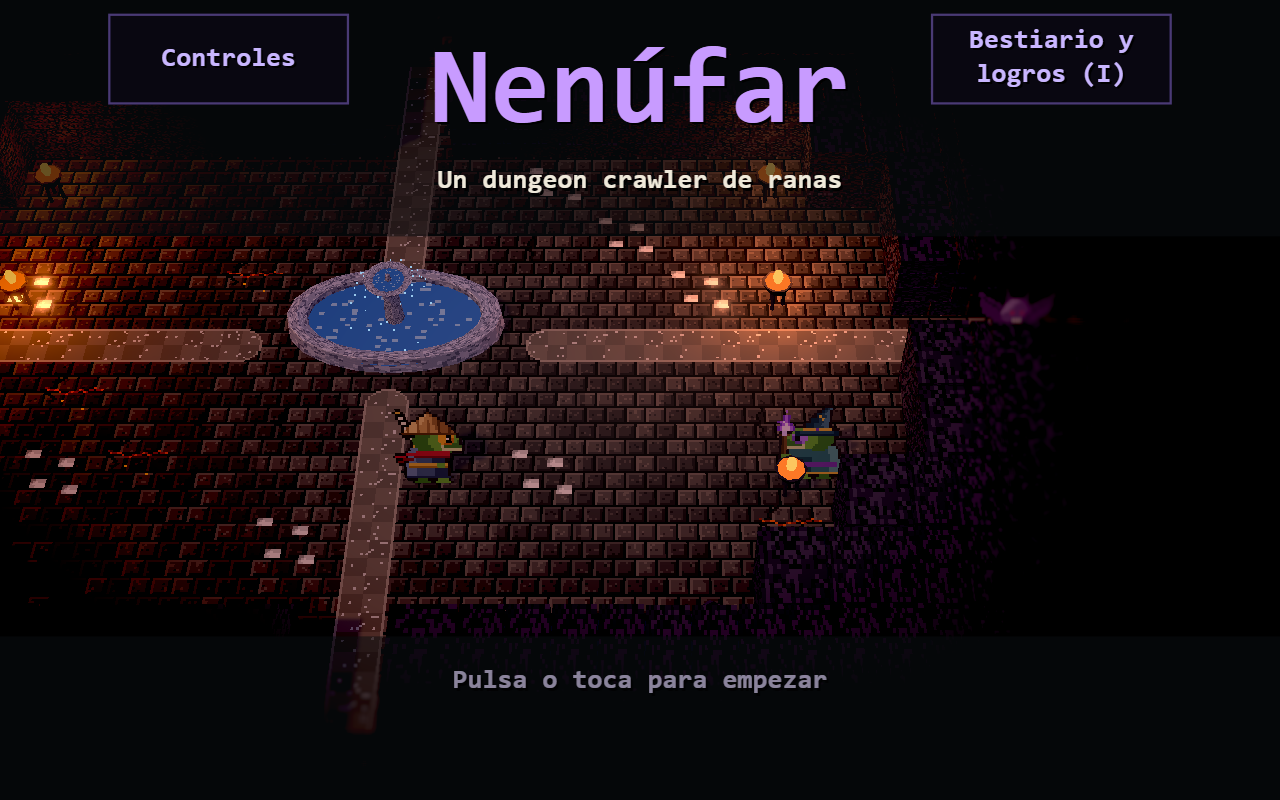
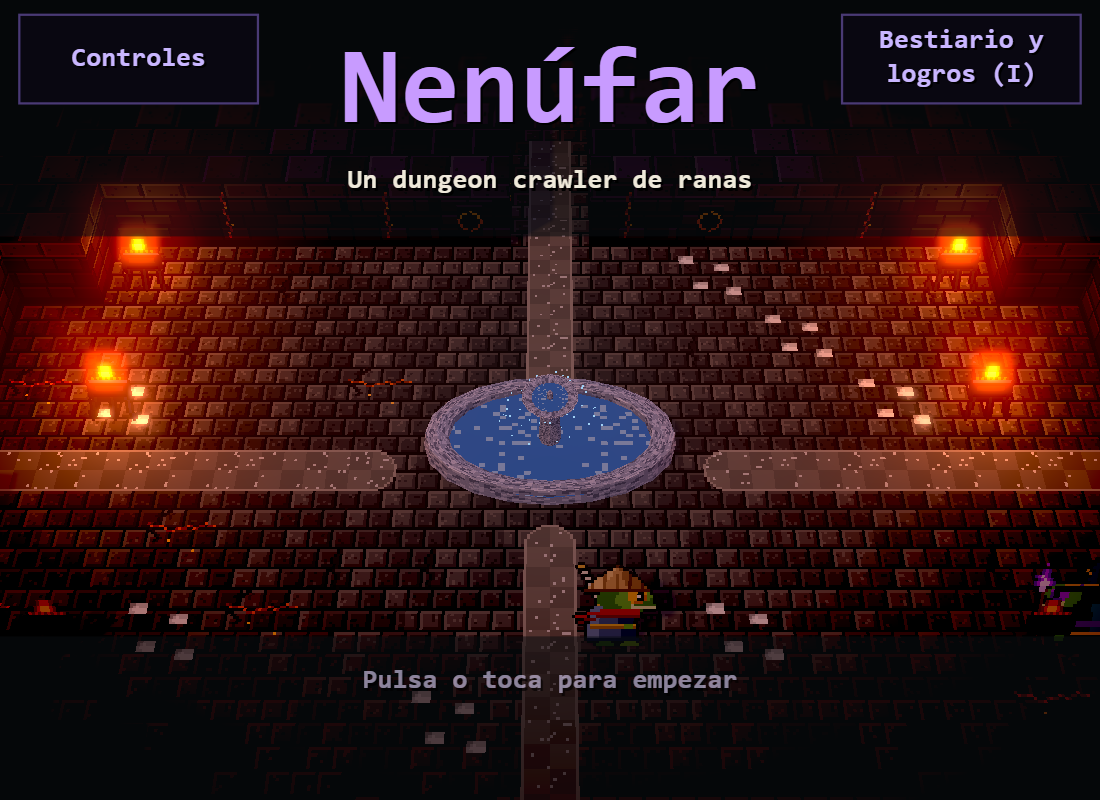
Objetos en 3D como sprites de pie con su dibujo real (se quitan los modelos de formas sencillas); luz del brasero algo más baja; visor con &vista=x,z,ancho

diff --git a/src/render/mundo/modelos.ts b/src/render/mundo/modelos.ts
@@ -1,288 +1,6 @@
 import * as THREE from 'three';
 import type { Tile } from '../../core/sala';
-import type { MaterialesBosque } from './borde';
 import { materialRuido, paleta } from './texturas';
-
-/**
- * Modelo con relieve para el objeto cuyo tile de abajo es `t`, con los colores sacados de su propio sprite,
- * o null si no hay modelo para él (se queda como sprite de pie). El origen es el centro de su base.
- * Son formas sencillas (bolas facetadas, conos, cilindros, cajas, tornos) con grano de pixel art: lo que el
- * arte dibuja visto desde arriba no funciona como sprite en 3D.
- */
-export function crearModelo(
-  t: Tile,
-  imagenes: readonly HTMLImageElement[],
-  tam: number,
-  bosque: MaterialesBosque | null,
-  azar: () => number,
-): THREE.Object3D | null {
-  const grupo = new THREE.Group();
-  const poner = (
-    geometria: THREE.BufferGeometry,
-    material: THREE.Material | THREE.Material[],
-    x: number,
-    y: number,
-    z: number,
-    escala: [number, number, number] = [1, 1, 1],
-    giro = azar() * 6,
-  ): THREE.Mesh => {
-    const m = new THREE.Mesh(geometria, material);
-    m.position.set(x, y, z);
-    m.rotation.y = giro;
-    m.scale.set(...escala);
-    m.castShadow = true;
-    m.receiveShadow = true;
-    grupo.add(m);
-    return m;
-  };
-  const colores = (n: number, filtro?: (r: number, g: number, b: number) => boolean): number[] =>
-    paleta(imagenes, t, tam, n, filtro);
-  const piedra = (): THREE.Material => materialRuido(colores(3), [0.3, 0.45, 0.25], azar);
-  const bola = new THREE.IcosahedronGeometry(1, 1);
-  const caja = new THREE.BoxGeometry(1, 1, 1);
-
-  switch (t.name) {
-    case 'arbol_inf': {
-      if (!bosque) return null;
-      // Tronco y tres copas, como los del borde pero algo más grandes.
-      const alto = 0.95;
-      poner(troncoGeo(), bosque.tronco, 0, 0, 0, [0.11, alto, 0.11]);
-      for (let k = 0; k < 3; k++) {
-        const r = 0.36 + azar() * 0.12;
-        const a = (k / 3) * Math.PI * 2 + azar();
-        poner(bola, bosque.copa, Math.cos(a) * 0.18, alto + azar() * 0.25, Math.sin(a) * 0.15, [
-          r,
-          r * 0.85,
-          r,
-        ]);
-      }
-      break;
-    }
-    case 'pino_inf': {
-      if (!bosque) return null;
-      // Conos apilados con los verdes del pino.
-      const agujas = materialRuido(colores(3, verde), [0.3, 0.45, 0.25], azar);
-      poner(troncoGeo(), bosque.tronco, 0, 0, 0, [0.08, 0.5, 0.08]);
-      [
-        [0.42, 0.62, 0.3],
-        [0.34, 0.55, 0.68],
-        [0.24, 0.5, 1.02],
-      ].forEach(([r = 0, h = 0, y = 0]) => {
-        poner(new THREE.ConeGeometry(1, 1, 7), agujas, 0, y + h / 2, 0, [r, h, r]);
-      });
-      break;
-    }
-    case 'roca': {
-      const m = piedra();
-      poner(new THREE.IcosahedronGeometry(1, 0), m, 0, 0.13, 0, [0.4, 0.27, 0.32]);
-      poner(new THREE.IcosahedronGeometry(1, 0), m, 0.22, 0.07, 0.08, [0.18, 0.13, 0.16]);
-      break;
-    }
-    case 'arbusto': {
-      // Bolas pequeñas con los verdes del arbusto y alguna de sus flores.
-      const [flor = 0xe08aa8] = colores(1, rosa);
-      const hojas = materialRuido([...colores(3, verde), flor], [0.4, 0.33, 0.17, 0.1], azar);
-      for (let k = 0; k < 4; k++) {
-        const a = (k / 4) * Math.PI * 2 + azar();
-        const r = 0.2 + azar() * 0.09;
-        poner(bola, hojas, Math.cos(a) * 0.17, 0.18 + azar() * 0.08, Math.sin(a) * 0.12, [
-          r,
-          r * 0.85,
-          r,
-        ]);
-      }
-      break;
-    }
-    case 'tocon': {
-      if (!bosque) return null;
-      // Cilindro de corteza con la madera clara arriba (grupos de CylinderGeometry: lado, tapa, base).
-      const [clara = 0xc89a64, media = 0xa0744a] = colores(2, calido);
-      const madera = materialRuido([clara, media], [0.6, 0.4], azar);
-      poner(
-        new THREE.CylinderGeometry(0.22, 0.27, 0.26, 8),
-        [bosque.tronco, madera, bosque.tronco],
-        0,
-        0.13,
-        0,
-      );
-      break;
-    }
-    case 'columna_inf': {
-      // Basa, fuste de ocho caras y capitel.
-      const m = piedra();
-      poner(caja, m, 0, 0.06, 0, [0.62, 0.12, 0.5], 0);
-      poner(new THREE.CylinderGeometry(0.17, 0.2, 1, 8), m, 0, 0.12 + 0.62, 0, [1, 1.24, 1]);
-      poner(caja, m, 0, 1.42, 0, [0.6, 0.12, 0.48], 0);
-      break;
-    }
-    case 'columna_rota': {
-      // Basa con un trozo de fuste roto y otro tirado al lado.
-      const m = piedra();
-      poner(caja, m, 0, 0.06, 0, [0.62, 0.12, 0.5], 0);
-      const fuste = poner(new THREE.CylinderGeometry(0.17, 0.2, 0.42, 8), m, -0.06, 0.33, 0);
-      fuste.rotation.z = 0.08;
-      const tirado = poner(
-        new THREE.CylinderGeometry(0.15, 0.15, 0.4, 8),
-        m,
-        0.3,
-        0.15,
-        0.12,
-        [1, 1, 1],
-        0,
-      );
-      tirado.rotation.set(0.3, 0.5, Math.PI / 2);
-      break;
-    }
-    case 'escombros': {
-      // Unos cuantos cascotes de piedra.
-      const m = piedra();
-      for (let k = 0; k < 5; k++) {
-        const r = 0.08 + azar() * 0.1;
-        poner(
-          new THREE.IcosahedronGeometry(1, 0),
-          m,
-          (azar() - 0.5) * 0.6,
-          r * 0.6,
-          (azar() - 0.5) * 0.4,
-          [r * 1.3, r, r],
-        );
-      }
-      break;
-    }
-    case 'vasija': {
-      // Torno de barro: base estrecha, panza y boca.
-      const barro = materialRuido(colores(3, calido), [0.35, 0.45, 0.2], azar);
-      const perfil = [
-        [0, 0],
-        [0.12, 0],
-        [0.22, 0.12],
-        [0.24, 0.24],
-        [0.15, 0.38],
-        [0.1, 0.44],
-        [0.13, 0.5],
-      ].map(([r = 0, y = 0]) => new THREE.Vector2(r, y));
-      poner(new THREE.LatheGeometry(perfil, 10), barro, 0, 0, 0);
-      break;
-    }
-    case 'pilar_inf': {
-      // Pilar cuadrado con basa y capitel más anchos.
-      const m = piedra();
-      poner(caja, m, 0, 0.08, 0, [0.62, 0.16, 0.5], 0);
-      poner(caja, m, 0, 0.8, 0, [0.42, 1.3, 0.34], 0);
-      poner(caja, m, 0, 1.52, 0, [0.6, 0.14, 0.48], 0);
-      break;
-    }
-    case 'lapida': {
-      // Losa con la parte de arriba redonda, algo torcida, y un poco de tierra delante.
-      const m = piedra();
-      const giro = (azar() - 0.5) * 0.3;
-      const losa = new THREE.Group();
-      const cuerpo = new THREE.Mesh(caja, m);
-      cuerpo.scale.set(0.46, 0.42, 0.12);
-      cuerpo.position.y = 0.21;
-      const arco = new THREE.Mesh(
-        new THREE.CylinderGeometry(0.23, 0.23, 0.12, 10, 1, false, 0, Math.PI),
-        m,
-      );
-      arco.rotation.set(Math.PI / 2, Math.PI / 2, 0);
-      arco.position.y = 0.42;
-      for (const p of [cuerpo, arco]) {
-        p.castShadow = p.receiveShadow = true;
-        losa.add(p);
-      }
-      losa.rotation.set(-0.08 + azar() * 0.16, giro, (azar() - 0.5) * 0.12);
-      grupo.add(losa);
-      break;
-    }
-    case 'sarcofago': {
-      // Caja con la tapa algo más grande.
-      const m = piedra();
-      poner(caja, m, 0, 0.16, 0, [0.72, 0.32, 0.46], 0);
-      poner(caja, m, 0, 0.36, 0, [0.78, 0.08, 0.52], 0);
-      poner(caja, m, 0, 0.42, 0, [0.6, 0.04, 0.36], 0);
-      break;
-    }
-    case 'candelabro': {
-      // Pie, brazo y tres velas con su llama, que brilla (el bloom la recoge).
-      const [metal = 0xe2b448] = colores(1, calido);
-      const oro = materialRuido([metal, 0xa0782c], [0.7, 0.3], azar);
-      poner(new THREE.CylinderGeometry(0.03, 0.12, 0.7, 6), oro, 0, 0.35, 0, [1, 1, 1], 0);
-      poner(caja, oro, 0, 0.7, 0, [0.46, 0.04, 0.05], 0);
-      const cera = new THREE.MeshLambertMaterial({ color: 0xf1e6cf });
-      const llama = new THREE.MeshBasicMaterial({ color: 0xffd27a });
-      for (const x of [-0.21, 0, 0.21]) {
-        const alto = x === 0 ? 0.16 : 0.12;
-        poner(new THREE.CylinderGeometry(0.035, 0.035, alto, 6), cera, x, 0.72 + alto / 2, 0);
-        const fuego = poner(
-          new THREE.SphereGeometry(0.04, 6, 4),
-          llama,
-          x,
-          0.76 + alto,
-          0,
-          [1, 1.6, 1],
-        );
-        fuego.castShadow = false;
-      }
-      break;
-    }
-    case 'brasero': {
-      // Cuenco de hierro sobre tres patas, con un lecho de brasas y una llama que brilla (el bloom la recoge).
-      const hierro = new THREE.MeshLambertMaterial({ color: 0x2a2634, flatShading: true });
-      const brasa = new THREE.MeshBasicMaterial({ color: 0xff7a2a });
-      const llama = new THREE.MeshBasicMaterial({ color: 0xffc860 });
-      poner(new THREE.CylinderGeometry(0.2, 0.12, 0.16, 8), hierro, 0, 0.36, 0);
-      for (const ang of [0, 2.1, 4.2]) {
-        const x = Math.cos(ang) * 0.1;
-        const z = Math.sin(ang) * 0.1;
-        poner(new THREE.CylinderGeometry(0.02, 0.03, 0.3, 5), hierro, x, 0.15, z);
-      }
-      poner(new THREE.CylinderGeometry(0.17, 0.17, 0.02, 8), brasa, 0, 0.44, 0).castShadow = false;
-      poner(new THREE.SphereGeometry(0.07, 6, 4), llama, 0, 0.53, 0, [1, 1.8, 1]).castShadow =
-        false;
-      break;
-    }
-    case 'cofre_cerrado':
-    case 'cofre_abierto': {
-      // Caja de madera con tapa y herrajes; abierto, la tapa echada hacia atrás.
-      const [madera1 = 0x9a6a42, madera2 = 0x6e4a2c] = colores(2, calido);
-      const madera = materialRuido([madera1, madera2], [0.6, 0.4], azar);
-      const [herraje = 0xe2b448] = colores(1, (r, g, b) => r > 180 && g > 140 && b < 120);
-      const oro = new THREE.MeshLambertMaterial({ color: herraje, flatShading: true });
-      poner(caja, madera, 0, 0.17, 0, [0.6, 0.34, 0.4], 0);
-      poner(caja, oro, 0, 0.17, 0.205, [0.1, 0.12, 0.02], 0);
-      const tapa = new THREE.Group();
-      const tabla = new THREE.Mesh(caja, madera);
-      tabla.scale.set(0.62, 0.12, 0.42);
-      tabla.position.set(0, 0.06, 0.21);
-      const banda = new THREE.Mesh(caja, oro);
-      banda.scale.set(0.64, 0.04, 0.08);
-      banda.position.set(0, 0.06, 0.21);
-      for (const p of [tabla, banda]) {
-        p.castShadow = p.receiveShadow = true;
-        tapa.add(p);
-      }
-      // La tapa gira por su borde de atrás.
-      tapa.position.set(0, 0.34, -0.21);
-      if (t.name === 'cofre_abierto') tapa.rotation.x = -1.9;
-      grupo.add(tapa);
-      break;
-    }
-    default:
-      return null;
-  }
-  return grupo;
-}
-
-const verde = (r: number, g: number, b: number): boolean => g > r && g >= b;
-const calido = (r: number, g: number, b: number): boolean => r > g && r > b;
-const rosa = (r: number, g: number, b: number): boolean => r > g + 30 && b > g;
-
-/** Cilindro de alto 1 con la base en el suelo. */
-function troncoGeo(): THREE.BufferGeometry {
-  const g = new THREE.CylinderGeometry(0.8, 1, 1, 6);
-  g.translate(0, 0.5, 0);
-  return g;
-}
 
 /**
  * Barrera de una salida cerrada: barrotes de hierro de lado a lado de la casilla, a lo largo de X (salidas norte

diff --git a/src/render/mundo/mundo.ts b/src/render/mundo/mundo.ts
@@ -23,7 +23,7 @@ import {
 } from './borde';
 import { crearFuente } from './fuente';
 import { crearHundidos } from './hundidos';
-import { crearBarrera, crearModelo } from './modelos';
+import { crearBarrera } from './modelos';
 import { ajustarPixelArt, cuentaColores, pintar, textura } from './texturas';
 import { transparentar, uniformesTransparencia } from './transparencia';
 
@@ -422,7 +422,7 @@ export class Mundo {
     });
   }
 
-  /** Modelo con relieve si lo hay; si no, sprite de pie con sus tiles. Y su luz, si lleva. */
+  /** El objeto como sprite de pie con su dibujo (sus tiles, con la animación si la tiene) y su luz, si lleva. */
   private ponerObjeto(v: VistaSala, o: ObjetoSala): void {
     const z = this.zona;
     if (!z) return;
@@ -440,29 +440,21 @@ export class Mundo {
       v.fuente = fuente;
       obj = fuente.grupo;
     } else {
-      const modelo = crearModelo(o.inf, imagenes, tam, z.bosque, v.azar);
-      if (modelo) {
-        // Plantado en el centro de su caja de choque, así la colisión no cambia.
-        const [x0, y0, x1, y1] = o.inf.caja ?? [0, 0, tam, tam];
-        modelo.position.set(o.x + (x0 + x1) / 2 / tam, 0, o.y + (y0 + y1) / 2 / tam);
-        obj = modelo;
-      } else {
-        const tiles = [o.sup, o.inf].filter((t): t is Tile => t !== null);
-        const lienzo = pintar(1, tiles.length, tam, () => {});
-        const pieza = { tiles, ctx: lienzo.getContext('2d')!, tex: textura(lienzo), frame: -1 };
-        pintarPieza(pieza, imagenes, tam, 0);
-        if (tiles.some((t) => t.frames)) v.piezas.set(o, pieza);
-        const plano = carton(
-          new THREE.MeshLambertMaterial({ map: pieza.tex, alphaTest: 0.5, side: THREE.DoubleSide }),
-          1,
-          tiles.length,
-          0,
-        );
-        plano.position.set(o.x + 0.5, 0, o.y + 0.85);
-        plano.rotation.x = -this.giro;
-        plano.scale.y = this.estirar;
-        obj = plano;
-      }
+      const tiles = [o.sup, o.inf].filter((t): t is Tile => t !== null);
+      const lienzo = pintar(1, tiles.length, tam, () => {});
+      const pieza = { tiles, ctx: lienzo.getContext('2d')!, tex: textura(lienzo), frame: -1 };
+      pintarPieza(pieza, imagenes, tam, 0);
+      if (tiles.some((t) => t.frames)) v.piezas.set(o, pieza);
+      const plano = carton(
+        new THREE.MeshLambertMaterial({ map: pieza.tex, alphaTest: 0.5, side: THREE.DoubleSide }),
+        1,
+        tiles.length,
+        0,
+      );
+      plano.position.set(o.x + 0.5, 0, o.y + 0.85);
+      plano.rotation.x = -this.giro;
+      plano.scale.y = this.estirar;
+      obj = plano;
     }
     v.objetos.set(o, obj);
     v.grupo.add(obj);

diff --git a/src/main.ts b/src/main.ts
@@ -696,9 +696,12 @@ async function portada(
   mundo: Mundo,
   sprites: Parameters<typeof crearPortada>[7],
 ): Promise<Portada3d> {
-  const datos = HD2D.portada;
-  // En desarrollo, `?portada=cauce_combate_01` enseña esa sala (la zona es lo que va antes del primer `_`).
-  const pedida = import.meta.env.DEV ? new URLSearchParams(location.search).get('portada') : null;
+  // En desarrollo, `?portada=cauce_combate_01` enseña esa sala (la zona es lo que va antes del primer `_`) y
+  // `&vista=x,z,ancho` acerca la cámara a esa casilla, con ese ancho en casillas.
+  const params = import.meta.env.DEV ? new URLSearchParams(location.search) : null;
+  const pedida = params?.get('portada') ?? null;
+  const [vx, vz, va] = (params?.get('vista') ?? '').split(',').map(Number);
+  const datos = va ? { ...HD2D.portada, encuadre: { x: vx!, z: vz!, ancho: va } } : HD2D.portada;
   const zona = pedida ? pedida.split('_')[0]! : datos.zona;
   const idPlantilla = pedida ?? datos.plantilla;
   const conjunto = PLANTILLAS_DEV[zona];
